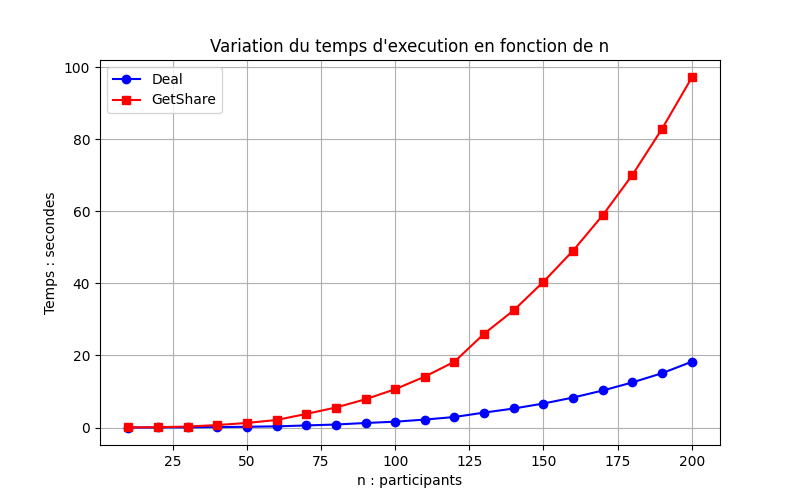
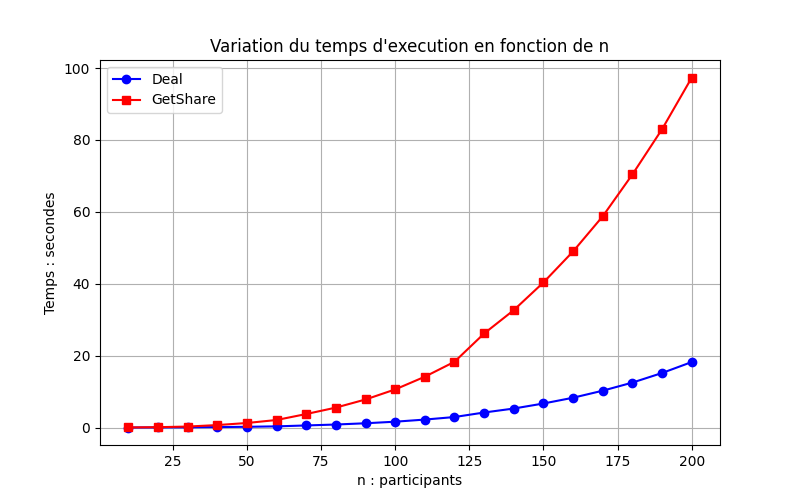
Dernières modifs

diff --git a/src/proximity_proof.cpp b/src/proximity_proof.cpp
@@ -9,6 +9,7 @@
 /*
  * Fonction qui geenere le defi non interactif Fiat-Shamir rho.
  * Hache la concatenation d'un tag de domaine et des engagements publics.
+ * D'APRES SCHWARTZ ZIPPEL 
  */
 FieldElement fiat_shamir_rho(
     // Racine de l'arbre global psi(X,Y)
@@ -106,7 +107,7 @@ bool verify_prox(
         return false;
     }
 
-    // Verification que deg(h(X)) <= t
+    // Verification que deg(h(X)) <= t (au lieu du pliage jusqu'a t+1 points)
     if (NTL::deg(proof.h_X) > static_cast<long>(t)) {
         return false;
     }
@@ -140,18 +141,18 @@ bool verify_prox(
             xa[static_cast<long>(k)] = eval_pts[op.indices[k]];
             ya[static_cast<long>(k)] = op.evals[k];
         }
-        Uni_Poly p_i;
+        Uni_Poly p_i; // En fait c'est psi
         NTL::interpolate(p_i, xa, ya);
 
-        // Test d'intersection : p_i(rho) == h(x_i)
+        // Test d'intersection : psi(xi, rho) == h(x_i)
         FieldElement p_i_rho, h_xi;
         NTL::eval(p_i_rho, p_i, proof.rho);
         NTL::eval(h_xi, proof.h_X, eval_pts[i]);
 
-        if (p_i_rho != h_xi) {
+        if (p_i_rho != h_xi) { // Est ce que psi(x_i, rho) == h(x_i) ?
             return false;
         }
     }
 
     return true;
-}
+} // problématique étudiée le fait d'utiliser AVSS pour la clé secrète pour HQC distribué 

diff --git a/src/getshare.cpp b/src/getshare.cpp
@@ -46,6 +46,7 @@ std::vector<EchoMessage> receive_deal(
     const size_t t = state.threshold;
     const size_t i = state.my_index;
 
+    // si la proximité est = à 0 on abandonne
     if (!verify_prox(broadcast.pi, t, state.x_coords, broadcast.c, broadcast.c_psi_Y)) {
         return {};
     }
